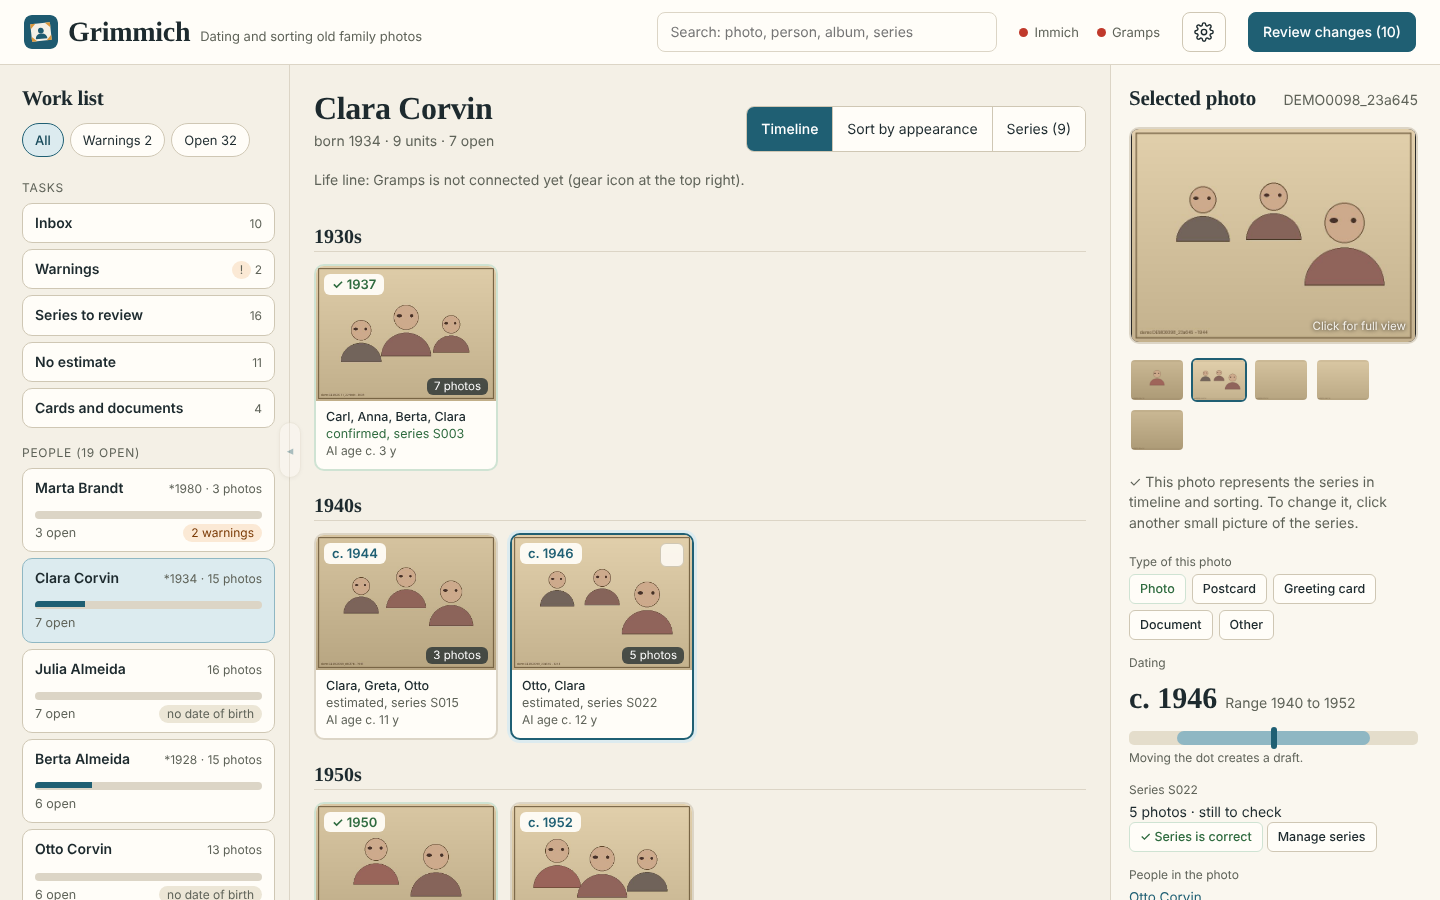
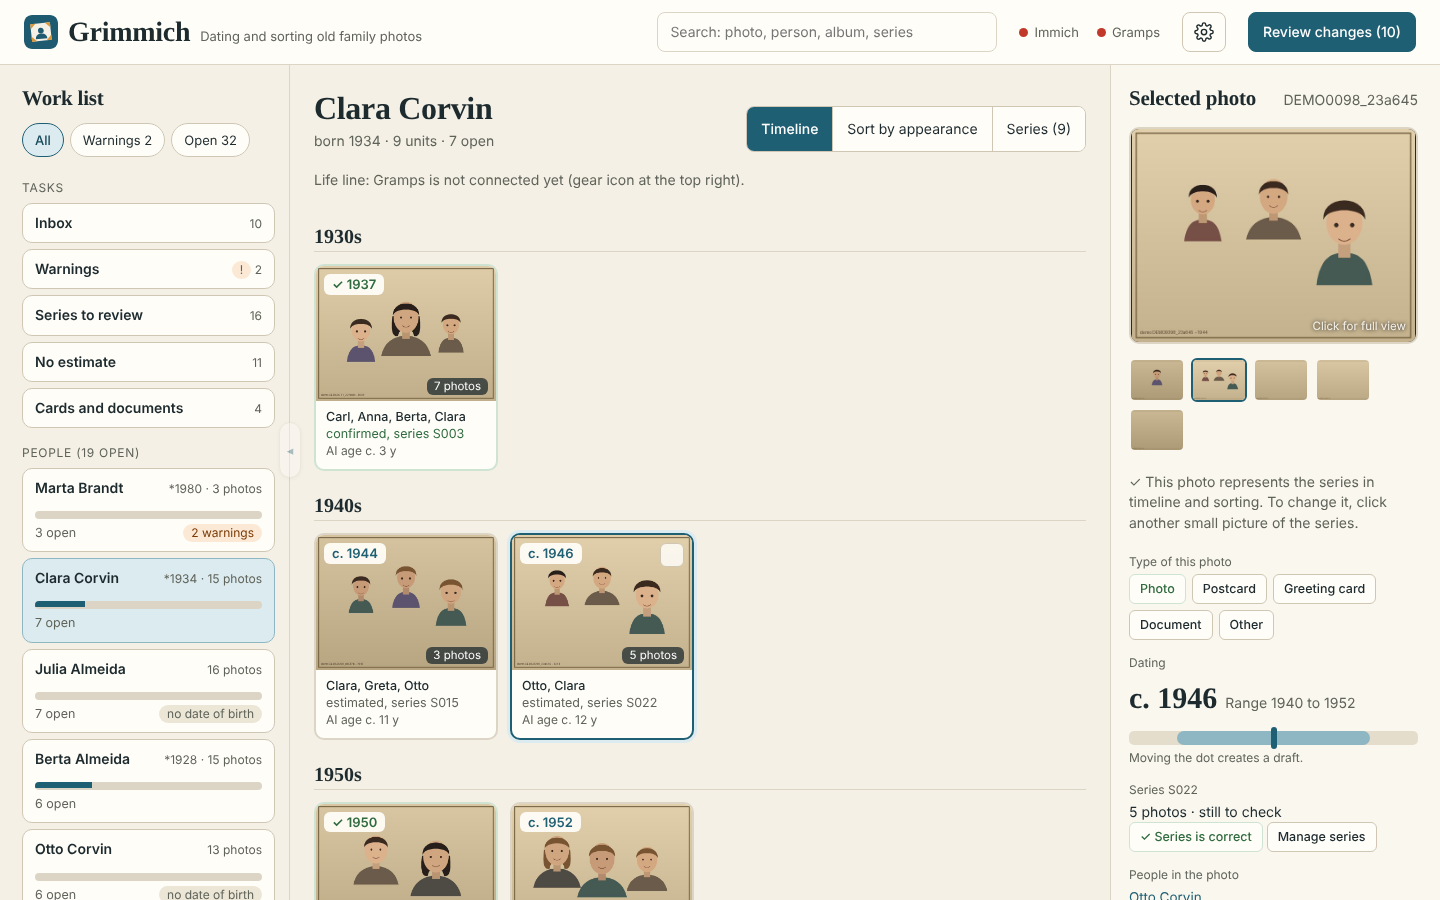
Screenshots: sorting by appearance and Gramps life line, side by side; demo photos drawn as figures
Claude-Session: https://claude.ai/code/session_01J9m7wER1sRAdMuqnGSEzgy

diff --git a/demo_data.py b/demo_data.py
@@ -50,29 +50,84 @@ def make_people(rng):
     return unique
 
 
-def draw_photo(path_, key, rng, boxes, year, size=(640, 480)):
-    """A simple drawing: sepia background, head and shoulder shapes where the faces are."""
+def _bezier(p0, p1, p2, p3, n=14):
+    pts = []
+    for i in range(n + 1):
+        t = i / n
+        u = 1 - t
+        pts.append((u ** 3 * p0[0] + 3 * u * u * t * p1[0] + 3 * u * t * t * p2[0] + t ** 3 * p3[0],
+                    u ** 3 * p0[1] + 3 * u * u * t * p1[1] + 3 * u * t * t * p2[1] + t ** 3 * p3[1]))
+    return pts
+
+
+def _figure(d, cx, cy, r, age, rng):
+    """One simple person (head, hair, shoulders), drawn like the figures of the planned game; age changes hair and face."""
+    k = r / 40.0
+    T = lambda x, y: (cx + (x - 100) * k, cy + (y - 115) * k)
+    poly = lambda pts, **kw: d.polygon([T(*p) for p in pts], **kw)
+    child = age < 14
+    skin = rng.choice([(212, 168, 129), (207, 166, 127), (199, 154, 120), (219, 178, 140)])
+    if age < 38:
+        hair = rng.choice([(59, 42, 32), (84, 58, 38), (40, 30, 26), (120, 84, 50)])
+    elif age < 58:
+        hair = rng.choice([(70, 55, 45), (95, 85, 78), (59, 42, 32)])
+    elif age < 70:
+        hair = (150, 143, 135)
+    else:
+        hair = (185, 180, 170)
+    cloth = rng.choice([(107, 91, 74), (78, 74, 68), (92, 84, 110), (118, 80, 70), (70, 90, 84)])
+    line = (154, 118, 88)
+    ink = (59, 42, 32)
+    sw = 0.7 if child else 1.0   # children: narrower shoulders
+    body = _bezier((100 - 80 * sw, 240), (100 - 70 * sw, 190), (70, 175), (100, 175)) + _bezier((100, 175), (130, 175), (100 + 70 * sw, 190), (100 + 80 * sw, 240))
+    poly(body, fill=cloth)
+    d.rectangle([T(88, 150), T(112, 185)], fill=tuple(int(c * 0.9) for c in skin))
+    rx, ry = (36, 44) if child else (40, 50)
+    if rng.random() < 0.5 and not child:   # longer hair behind the head
+        poly(_bezier((56, 112), (50, 170), (60, 178), (74, 176)) + _bezier((74, 176), (80, 140), (120, 140), (126, 176)) + _bezier((126, 176), (140, 178), (150, 170), (144, 112)), fill=hair)
+    d.ellipse([T(100 - rx, 115 - ry), T(100 + rx, 115 + ry)], fill=skin)
+    cap = _bezier((58, 108), (56, 58), (144, 58), (142, 108)) + _bezier((142, 108), (132, 84), (68, 84), (58, 108))
+    poly(cap, fill=hair)
+    eye_y = 120 if child else 116
+    er = (4.2 if child else 3.2) * k
+    for ex in (84, 116):
+        x, y = T(ex, eye_y)
+        d.ellipse([x - er, y - er, x + er, y + er], fill=ink)
+    w = max(1, int(1.5 * k))
+    if age >= 40:   # brows and fine lines
+        for bx in ((72, 94), (106, 128)):
+            d.line([T(bx[0], 106), T((bx[0] + bx[1]) / 2, 101), T(bx[1], 106)], fill=line, width=w)
+    if age >= 58:
+        for bx in ((78, 90), (110, 122)):
+            d.line([T(bx[0], 130), T((bx[0] + bx[1]) / 2, 134), T(bx[1], 130)], fill=line, width=w)
+    my = 148 if child else 143
+    d.line([T(*p) for p in _bezier((88, my - 1), (96, my + 6), (104, my + 6), (112, my - 1))], fill=(138, 90, 72), width=max(2, int(2.5 * k)))
+
+
+def draw_photo(path_, key, rng, boxes, year, size=(640, 480), ages=None):
+    """A simple drawing: sepia background, small figures (head, hair, shoulders) where the faces are."""
     from PIL import Image, ImageDraw, ImageFont
     w, h = size
+    ss = 2   # draw twice as large and shrink: smooth edges
     tone = rng.randint(-12, 12)
-    img = Image.new("RGB", size, (214 + tone, 196 + tone, 160 + tone))
+    img = Image.new("RGB", (w * ss, h * ss), (214 + tone, 196 + tone, 160 + tone))
     d = ImageDraw.Draw(img)
-    for y in range(h):   # soft gradient
-        shade = int(30 * y / h)
-        d.line([(0, y), (w, y)], fill=(214 + tone - shade, 196 + tone - shade, 160 + tone - shade))
-    d.rectangle([8, 8, w - 9, h - 9], outline=(120, 100, 70), width=3)
-    for (x1, y1, x2, y2) in boxes:
-        cx, cy, r = (x1 + x2) // 2, (y1 + y2) // 2, (x2 - x1) // 2
-        d.ellipse([cx - r, cy - r, cx + r, cy + r], fill=(205, 170, 140), outline=(90, 70, 50), width=2)
-        d.ellipse([cx - r // 2 - r // 4, cy - r // 4, cx - r // 2 + r // 6, cy], fill=(70, 50, 40))
-        d.ellipse([cx + r // 3, cy - r // 4, cx + r // 3 + r // 4, cy], fill=(70, 50, 40))
-        d.pieslice([cx - r * 2, y2 + r // 4, cx + r * 2, y2 + r * 4], 180, 360, fill=(110 + rng.randint(0, 50), 100, 90), outline=(70, 55, 45))
+    for y in range(h * ss):   # soft gradient
+        shade = int(30 * y / (h * ss))
+        d.line([(0, y), (w * ss, y)], fill=(214 + tone - shade, 196 + tone - shade, 160 + tone - shade))
+    for i, (x1, y1, x2, y2) in enumerate(boxes):
+        cx, cy, r = (x1 + x2) * ss // 2, (y1 + y2) * ss // 2, (x2 - x1) * ss // 2
+        age = ages[i] if ages and i < len(ages) else 35
+        _figure(d, cx, cy, r, age, random.Random(f"{key}-{i}"))
+    d.rectangle([8 * ss, 8 * ss, (w - 9) * ss, (h - 9) * ss], outline=(120, 100, 70), width=3 * ss)
+    img = img.resize((w, h), Image.LANCZOS)
+    d = ImageDraw.Draw(img)
     try:
         font = ImageFont.load_default()
     except OSError:
         font = None
     d.text((18, h - 28), f"demo {key} ~{year}", fill=(90, 70, 50), font=font)
-    img.save(path_, "JPEG", quality=82)
+    img.save(path_, "JPEG", quality=84)
 
 
 def build(folder, pictures=True):
@@ -101,13 +156,14 @@ def build(folder, pictures=True):
             if present and wrong and rng.random() < 0.06:   # now and then a face that was named wrongly: this gives a few warnings
                 present[0] = rng.choice(wrong)
             size = (640, 480)
-            faces, boxes, names = [], [], []
+            faces, boxes, names, face_ages = [], [], [], []
             for i, p in enumerate(present):
                 r = rng.randint(28, 46)
                 cx = int((i + 1) * size[0] / (len(present) + 1))
                 cy = rng.randint(150, 230)
                 box = [cx - r, cy - r, cx + r, cy + r]
                 boxes.append(tuple(box))
+                face_ages.append(max(1, year - p["birth_year"]))
                 named = rng.random() < 0.85
                 faces.append({"id": asset_id(rng), "p": p["id"] if named else "", "b": box + [size[0], size[1]]})
                 if named:
@@ -119,7 +175,7 @@ def build(folder, pictures=True):
             people_of_photo[key] = [p["name"] for p in names]
             if datable:
                 ages[key] = [{"name": p["name"], "birth": float(p["birth"][:4]) + 0.4, "age": round(max(0.3, photo_year - (float(p["birth"][:4]) + 0.4) + rng.uniform(-3, 3)), 4)} for p in datable]
-            records.append({"key": key, "file": file_, "asset": asset, "year": photo_year, "datable": bool(datable), "boxes": boxes, "series": s,
+            records.append({"key": key, "file": file_, "asset": asset, "year": photo_year, "datable": bool(datable), "boxes": boxes, "face_ages": face_ages, "series": s,
                             "album": album, "estimate": None})
             keys.append(key)
         series_list.append({"keys": keys, "year": year})
@@ -132,7 +188,7 @@ def build(folder, pictures=True):
         photos.append({"key": key, "file": file_, "id": asset, "faces": 0, "named": 0, "datable": False})
         state_photos[key] = {"asset": asset, "faces": []}
         people_of_photo[key] = []
-        records.append({"key": key, "file": file_, "asset": asset, "year": rng.randint(1900, 1990), "datable": False, "boxes": [], "series": None,
+        records.append({"key": key, "file": file_, "asset": asset, "year": rng.randint(1900, 1990), "datable": False, "boxes": [], "face_ages": [], "series": None,
                         "album": ALBUMS[3], "estimate": None})
     kinds = {r["key"]: {"kind": k} for r, k in zip([r for r in records if r["series"] is None][:4], ["postcard", "postcard", "greeting_card", "document"])}
 
@@ -187,7 +243,7 @@ def build(folder, pictures=True):
         pics = os.path.join(folder, "serien_ausgabe", "fotos")
         os.makedirs(pics, exist_ok=True)
         for r in records:
-            draw_photo(os.path.join(pics, r["key"] + ".jpg"), r["key"], random.Random(r["key"]), r["boxes"], r["year"])
+            draw_photo(os.path.join(pics, r["key"] + ".jpg"), r["key"], random.Random(r["key"]), r["boxes"], r["year"], ages=r["face_ages"])
     return docs
 
 

diff --git a/README.de.md b/README.de.md
@@ -17,14 +17,11 @@ ausdrücklich bestätigst (Vorschau, Test mit 3 Fotos, dann alle). Vor jeder Än
 
 Alle Bilder zeigen die erfundenen Demo-Daten (siehe „Mit erfundenen Daten ausprobieren“), keine echten Personen oder Fotos. Die Oberfläche ist hier auf Englisch.
 
-![Arbeitsliste, Zeitleiste einer Person und das gewählte Foto](docs/screenshots/work-list.png)
-*Links die Arbeitsliste, in der Mitte die Zeitleiste einer Person, rechts das gewählte Foto mit seiner Datierung.*
-
-![Serien prüfen](docs/screenshots/series-to-review.png)
-*Serien: Fotos vom selben Anlass werden gemeinsam datiert.*
-
-![Verbindungen und Einstellungen](docs/screenshots/settings.png)
-*Verbindungen und Einstellungen.*
+<table>
+<tr><td width="50%" valign="top"><img src="docs/screenshots/work-list.png" alt="Arbeitsliste und Zeitleiste"><br><sub>Links die Arbeitsliste, in der Mitte die Zeitleiste einer Person, rechts das gewählte Foto.</sub></td><td width="50%" valign="top"><img src="docs/screenshots/sort-by-appearance.png" alt="Nach Aussehen sortieren"><br><sub>Nach Aussehen sortieren: die Gesichter einer Person von jung nach alt in eine Reihe legen; die Fotos dazwischen werden gleichmäßig datiert.</sub></td></tr>
+<tr><td width="50%" valign="top"><img src="docs/screenshots/gramps-life-line.png" alt="Lebenslinie aus Gramps"><br><sub>Lebenslinie aus Gramps: Geburten, Heirat und Wohnorte als Anker, darunter die Fotos.</sub></td><td width="50%" valign="top"><img src="docs/screenshots/series-to-review.png" alt="Serien prüfen"><br><sub>Serien: Fotos vom selben Anlass werden gemeinsam datiert.</sub></td></tr>
+<tr><td width="50%" valign="top"><img src="docs/screenshots/settings.png" alt="Verbindungen und Einstellungen"><br><sub>Verbindungen und Einstellungen.</sub></td><td width="50%"></td></tr>
+</table>
 
 ## Start
 

diff --git a/README.md b/README.md
@@ -17,14 +17,11 @@ backed up before every change.
 
 All screenshots show the invented demo data (see "Try it with invented data"), no real people or photos.
 
-![Work list, a person's timeline and the selected photo](docs/screenshots/work-list.png)
-*Work list on the left, the timeline of one person in the middle, the selected photo with its dating on the right.*
-
-![Series to review](docs/screenshots/series-to-review.png)
-*Series: photos from the same occasion are dated together.*
-
-![Connections and settings](docs/screenshots/settings.png)
-*Connections and settings.*
+<table>
+<tr><td width="50%" valign="top"><img src="docs/screenshots/work-list.png" alt="Work list and timeline"><br><sub>Work list on the left, the timeline of one person in the middle, the selected photo on the right.</sub></td><td width="50%" valign="top"><img src="docs/screenshots/sort-by-appearance.png" alt="Sort by appearance"><br><sub>Sort by appearance: put the faces of one person in a row from young to old; the photos in between are dated evenly.</sub></td></tr>
+<tr><td width="50%" valign="top"><img src="docs/screenshots/gramps-life-line.png" alt="Life line from Gramps"><br><sub>Life line from Gramps: births, marriages and residences as anchors, with the photos below.</sub></td><td width="50%" valign="top"><img src="docs/screenshots/series-to-review.png" alt="Series to review"><br><sub>Series: photos from the same occasion are dated together.</sub></td></tr>
+<tr><td width="50%" valign="top"><img src="docs/screenshots/settings.png" alt="Connections and settings"><br><sub>Connections and settings.</sub></td><td width="50%"></td></tr>
+</table>
 
 ## Getting started
 

diff --git a/CHANGELOG.md b/CHANGELOG.md
@@ -6,6 +6,7 @@ and puts the results back into Immich and Gramps. This log is reconstructed from
 ## 0.9.44 – 2026-11-02 – Tidying before going public
 - All test names, test comments and the remaining German messages in the code are English now (the German texts live in `languages/de.json`).
 - README: a clear note at the top that Grimmich has no login yet and must not be reachable from the internet.
+- Screenshots: new ones for sorting by appearance and the life line from Gramps (invented data), shown side by side. The demo photos are drawn as small figures that look older with age.
 - No change in behaviour.
 
 ## 0.9.43 – 2026-11-02 – Docker (first version, untested on a server)
